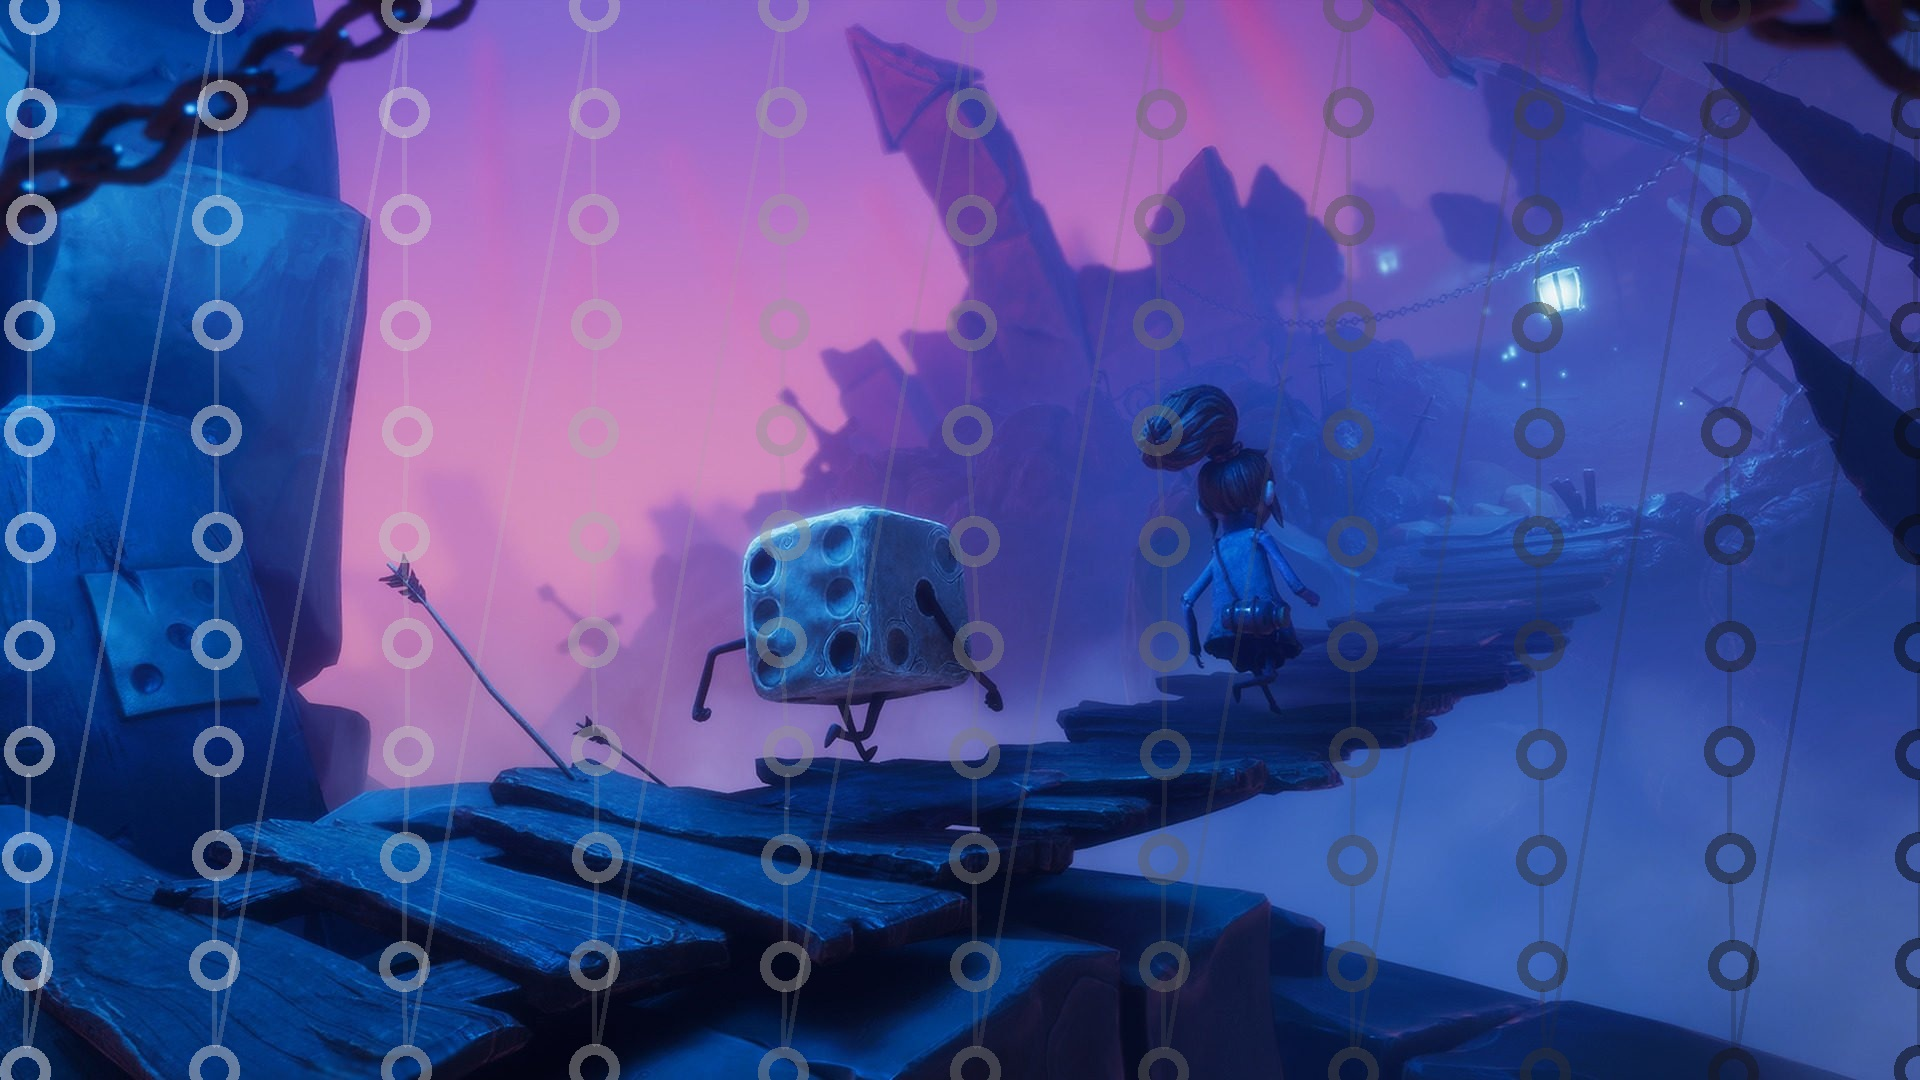
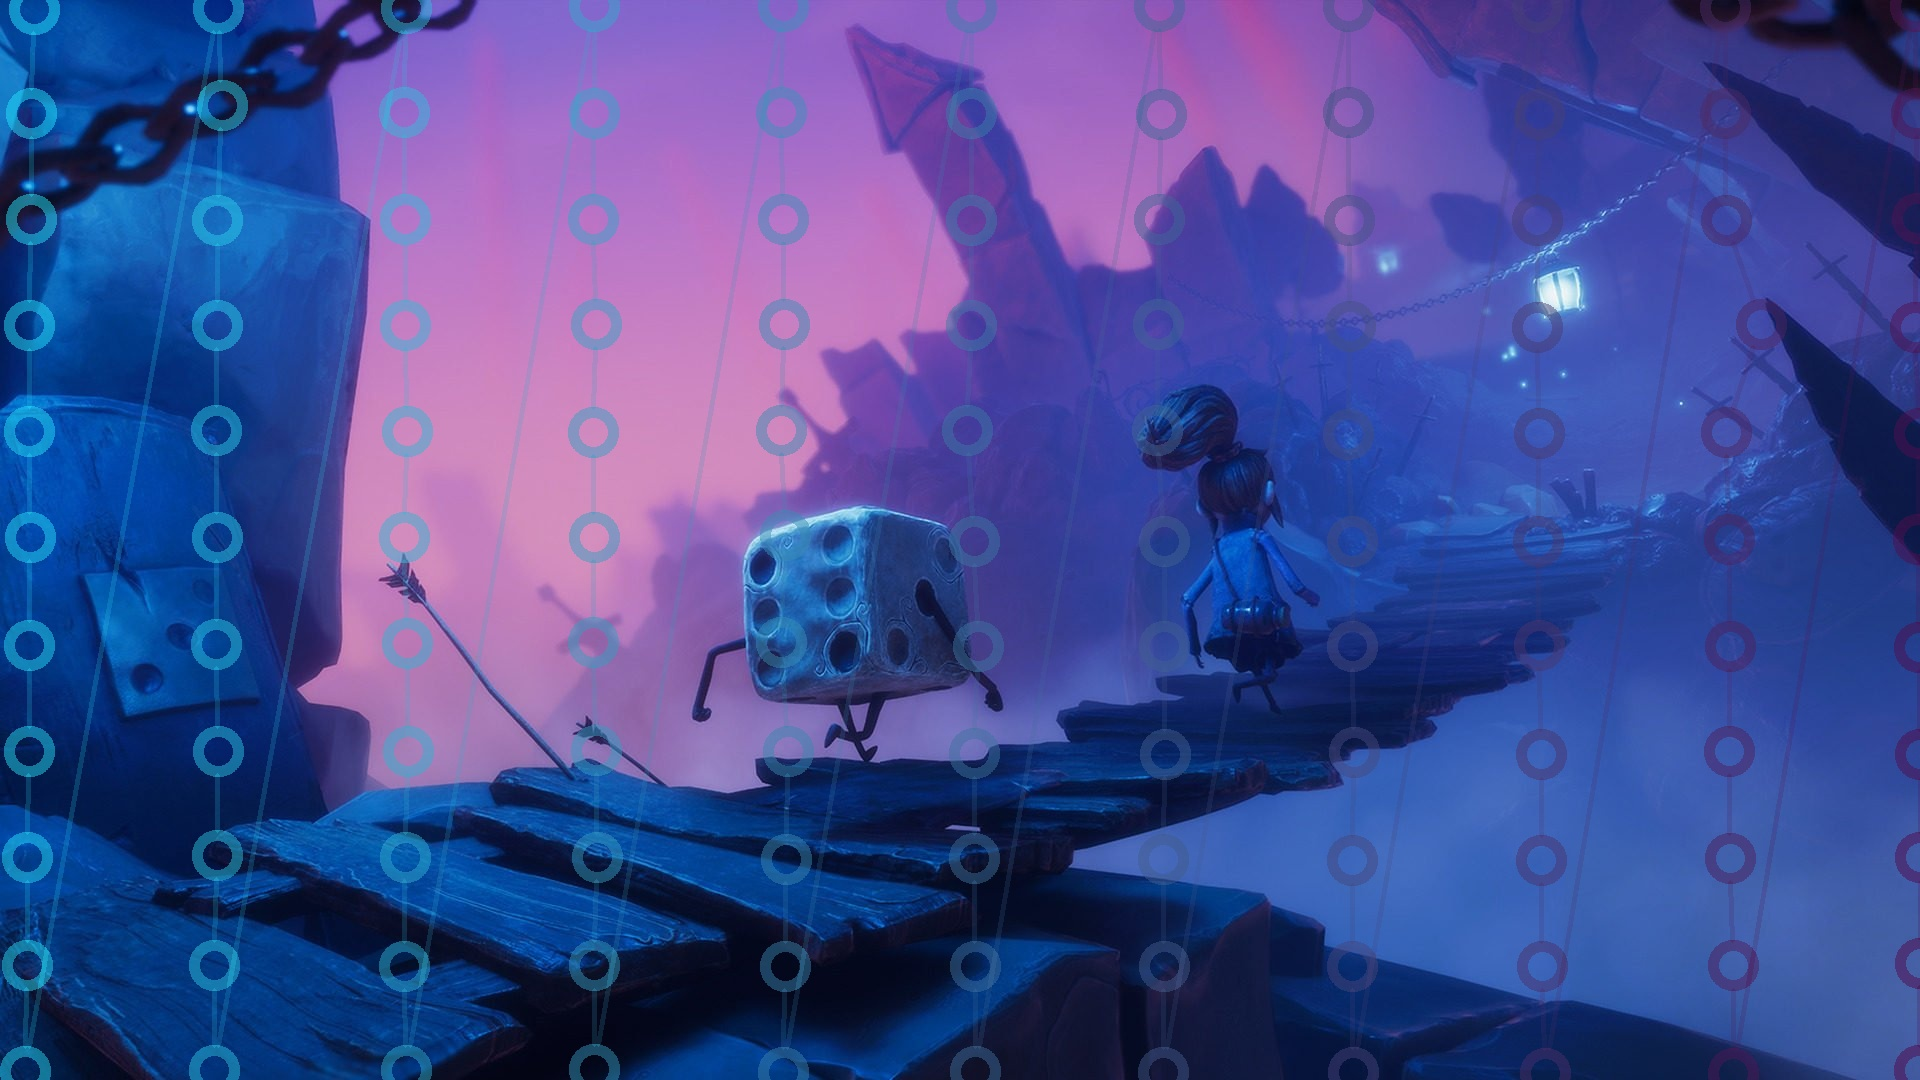
feat: added color picker for scanpath and better gradient between colors

diff --git a/main.py b/main.py
@@ -9,7 +9,7 @@ import numpy as np
 from PySide6.QtUiTools import QUiLoader
 from PySide6.QtGui import QPixmap, QImage, QRegularExpressionValidator
 from PySide6.QtCore import QFile, QRegularExpression, Qt
-from PySide6.QtWidgets import QApplication, QFileDialog, QLabel, QPushButton, QWidget, QButtonGroup
+from PySide6.QtWidgets import QApplication, QFileDialog, QLabel, QPushButton, QWidget, QButtonGroup, QColorDialog
 from pyqt_frameless_window import FramelessMainWindow
 from math import sqrt, atan2, cos, sin
 from matplotlib import pyplot, use
@@ -604,6 +604,11 @@ class VisualizationWindow(FramelessMainWindow):
     planeNormal = np.array([0, 1, 0])
     planeCenter = np.array([0, -500, 0])
     qimg = None
+    color1 = (0, 0, 0)
+    color2 = (255, 255, 255) 
+    repeat = False
+    points_group = {}
+    points_group_keys = []
 
     def __init__(self, imagePath = None, rawData = None, heatmap = None, scanpath = None):
         super().__init__()
@@ -633,10 +638,34 @@ class VisualizationWindow(FramelessMainWindow):
         self.heatmap = heatmap
         self.scanpath = scanpath
         self.__mainWidget.saveImage.clicked.connect(self.saveImage)
+        self.__mainWidget.color1.clicked.connect(self.setFirstColor)
+        self.__mainWidget.color2.clicked.connect(self.setSecondColor)
+        self.__mainWidget.color1.setStyleSheet(f'QPushButton {{background-color: #000000; border: 5px solid #FFE81F;}}')
+        self.__mainWidget.color2.setStyleSheet(f'QPushButton {{background-color: #FFFFFF; border: 5px solid #FFE81F;}}')
+        if not self.scanpath:
+            self.__mainWidget.color1.hide()
+            self.__mainWidget.color2.hide()
+
         if self.rawData:
             self.rawToPoint()
 
         if self.imagePath:
+            self.displayImage()
+
+    def setFirstColor(self):
+        color = QColorDialog.getColor()
+        if color.isValid():
+            r, g, b, _ = color.getRgb()
+            self.__mainWidget.color1.setStyleSheet(f'QPushButton {{background-color: {color.name()}; border: 5px solid #FFE81F;}}')
+            self.color1 = (b, g, r)
+            self.displayImage()
+
+    def setSecondColor(self):
+        color = QColorDialog.getColor()
+        if color.isValid():
+            r, g, b, _ = color.getRgb()
+            self.__mainWidget.color2.setStyleSheet(f'QPushButton {{background-color: {color.name()}; border: 5px solid #FFE81F;}}')
+            self.color2 = (b, g, r)
             self.displayImage()
 
     def saveImage(self):
@@ -675,6 +704,9 @@ class VisualizationWindow(FramelessMainWindow):
             
     def sqrMagnitude(self, v):
         return self.matmul(v, v)
+
+    def lerp(self, a, b, t):
+        return (1 - t) * a + t * b
 
     def convert_uv_to_px(self, uv_data, width, height):
         return (int(uv_data[0] * width), int(uv_data[1] * height))
@@ -736,89 +768,92 @@ class VisualizationWindow(FramelessMainWindow):
         TEXT_THICKNESS = 2
         TEXT_COLOR = (0, 0, 0)
 
-        points_group = {}
         colors = {}
         threshold = 50
         order = 0
 
-        for i in range(0, len(self.uv_coords)):
-            self.uv_coords[i] = self.convert_uv_to_px(self.uv_coords[i], image_width, image_height)
+        if not self.repeat:
+            self.repeat = True
+            for i in range(0, len(self.uv_coords)):
+                self.uv_coords[i] = self.convert_uv_to_px(self.uv_coords[i], image_width, image_height)
 
-        main_point = None
-        for i in range(0, len(self.uv_coords)):
-            if not main_point:
-                main_point = (self.uv_coords[i][0], self.uv_coords[i][1])
+            main_point = None
+            for i in range(0, len(self.uv_coords)):
+                if not main_point:
+                    main_point = (self.uv_coords[i][0], self.uv_coords[i][1])
 
-            if abs(self.uv_coords[i][0] - main_point[0]) <= threshold and abs(self.uv_coords[i][1] - main_point[1]) <= threshold:
-                if not points_group.get(order):
-                    points_group[order] = {'points': [self.uv_coords[i]], 'middle': {'x': 0, 'y': 0}, 'diameter': 0, 'index': order + 1}
-                else:
-                    points_group[order]['points'].append(self.uv_coords[i])
-            
-            else:
-                order += 1
-                main_point = (self.uv_coords[i][0], self.uv_coords[i][1])
-                points_group[order] = {'points': [self.uv_coords[i]], 'middle': {'x': 0, 'y': 0}, 'diameter': 0, 'index': order + 1}
-
-        points_group = dict(sorted(points_group.items(), key=lambda item: len(item[1]['points']), reverse=False))
-        points_group_keys = list(points_group)    
-
-        for key in points_group:
-            points = points_group[key]['points']
-            x = 0
-            y = 0
-            diameter = 0
-
-            for point in points:
-                x += point[0]
-                y += point[1]
-
-            x = int(x / len(points))
-            y = int(y / len(points))
-            points_group[key]['middle']['x'] = x
-            points_group[key]['middle']['y'] = y            
-
-        different_lengths = {}
-        for key in points_group:
-            if not different_lengths.get(len(points_group[key]['points'])):
-                different_lengths[len(points_group[key]['points'])] = [key]
-            else:
-                different_lengths[len(points_group[key]['points'])].append(key)
-
-        # base pixel for diameter ---- diameter = 20
-        # normalize between new_min and new_max ---- normalized_value = ((original_value - min_value) / (max_value - min_value)) * (new_max - new_min) + new_min
-        new_min = 1
-        new_max = 4
-        # normalize between 1 and 2 ---- normalized_value = (value - min_length) / (max_length - min_length) + 1
-
-        if len(different_lengths) > 1:
-            max_length = max(different_lengths)
-            min_length = min(different_lengths)
-            for value in different_lengths:
-                normalized_value = ((value - min_length) / (max_length - min_length)) * (new_max - new_min) + new_min
-                for key in different_lengths[value]:
-                    points_group[key]['diameter'] = int(20 * normalized_value)
-        else:
-            for key in different_lengths:
-                for value in different_lengths[key]:
-                    points_group[value]['diameter'] = 20
+                if abs(self.uv_coords[i][0] - main_point[0]) <= threshold and abs(self.uv_coords[i][1] - main_point[1]) <= threshold:
+                    if not self.points_group.get(order):
+                        self.points_group[order] = {'points': [self.uv_coords[i]], 'middle': {'x': 0, 'y': 0}, 'diameter': 0, 'index': order + 1}
+                    else:
+                        self.points_group[order]['points'].append(self.uv_coords[i])
                 
+                else:
+                    order += 1
+                    main_point = (self.uv_coords[i][0], self.uv_coords[i][1])
+                    self.points_group[order] = {'points': [self.uv_coords[i]], 'middle': {'x': 0, 'y': 0}, 'diameter': 0, 'index': order + 1}
 
-        points_group = dict(sorted(points_group.items(), key=lambda item: item[1]['index'], reverse=False))
-        points_group_keys = list(points_group)
+            self.points_group = dict(sorted(self.points_group.items(), key=lambda item: len(item[1]['points']), reverse=False))
+            self.points_group_keys = list(self.points_group)    
 
-        color_step = 1 / len(points_group)
-        for key in points_group:
-            shade = key * color_step
-            colors[key] = (int(255 * shade), int(255 * shade), int(255 * shade))
+            for key in self.points_group:
+                points = self.points_group[key]['points']
+                x = 0
+                y = 0
 
-        for key in range(0, len(points_group) - 1):
-            x1 = points_group[points_group_keys[key]]['middle']['x']
-            y1 = points_group[points_group_keys[key]]['middle']['y']
-            x2 = points_group[points_group_keys[key + 1]]['middle']['x']
-            y2 = points_group[points_group_keys[key + 1]]['middle']['y']
-            radius1 = points_group[points_group_keys[key]]['diameter']
-            radius2 = points_group[points_group_keys[key + 1]]['diameter']
+                for point in points:
+                    x += point[0]
+                    y += point[1]
+
+                x = int(x / len(points))
+                y = int(y / len(points))
+                self.points_group[key]['middle']['x'] = x
+                self.points_group[key]['middle']['y'] = y            
+
+            different_lengths = {}
+            for key in self.points_group:
+                if not different_lengths.get(len(self.points_group[key]['points'])):
+                    different_lengths[len(self.points_group[key]['points'])] = [key]
+                else:
+                    different_lengths[len(self.points_group[key]['points'])].append(key)
+
+            # base pixel for diameter ---- diameter = 20
+            # normalize between new_min and new_max ---- normalized_value = ((original_value - min_value) / (max_value - min_value)) * (new_max - new_min) + new_min
+            new_min = 1
+            new_max = 4
+            # normalize between 1 and 2 ---- normalized_value = (value - min_length) / (max_length - min_length) + 1
+
+            if len(different_lengths) > 1:
+                max_length = max(different_lengths)
+                min_length = min(different_lengths)
+                for value in different_lengths:
+                    normalized_value = ((value - min_length) / (max_length - min_length)) * (new_max - new_min) + new_min
+                    for key in different_lengths[value]:
+                        self.points_group[key]['diameter'] = int(20 * normalized_value)
+            else:
+                for key in different_lengths:
+                    for value in different_lengths[key]:
+                        self.points_group[value]['diameter'] = 20
+                    
+
+            self.points_group = dict(sorted(self.points_group.items(), key=lambda item: item[1]['index'], reverse=False))
+            self.points_group_keys = list(self.points_group)
+
+        t = 1 / (len(self.points_group) - 1) 
+        for key in self.points_group:
+            r = min(255, max(0, int(self.lerp(self.color1[0], self.color2[0], t))))
+            g = min(255, max(0, int(self.lerp(self.color1[1], self.color2[1], t))))
+            b = min(255, max(0, int(self.lerp(self.color1[2], self.color2[2], t))))
+            colors[key] = (r, g, b)
+            t += 1 / (len(self.points_group) - 1)
+
+        for key in range(0, len(self.points_group) - 1):
+            x1 = self.points_group[self.points_group_keys[key]]['middle']['x']
+            y1 = self.points_group[self.points_group_keys[key]]['middle']['y']
+            x2 = self.points_group[self.points_group_keys[key + 1]]['middle']['x']
+            y2 = self.points_group[self.points_group_keys[key + 1]]['middle']['y']
+            radius1 = self.points_group[self.points_group_keys[key]]['diameter']
+            radius2 = self.points_group[self.points_group_keys[key + 1]]['diameter']
 
             distance = sqrt((x2 - x1)**2 + (y2 - y1)**2)
 
@@ -828,19 +863,19 @@ class VisualizationWindow(FramelessMainWindow):
                 point1_y = y1 + (radius1 + outline_width // 2) * sin(angle)
                 point2_x = x2 - (radius2 + outline_width // 2) * cos(angle)
                 point2_y = y2 - (radius2 + outline_width // 2) * sin(angle)
-                cv2.line(overlay_lines, (int(point1_x), int(point1_y)), (int(point2_x), int(point2_y)), colors[list(points_group)[key]], 4)
+                cv2.line(overlay_lines, (int(point1_x), int(point1_y)), (int(point2_x), int(point2_y)), colors[list(self.points_group)[key]], 4)
             
-            text_size, _ = cv2.getTextSize(str(points_group[points_group_keys[key]]['index']), TEXT_FACE, TEXT_SCALE, TEXT_THICKNESS)
+            text_size, _ = cv2.getTextSize(str(self.points_group[self.points_group_keys[key]]['index']), TEXT_FACE, TEXT_SCALE, TEXT_THICKNESS)
             text_origin = (int(x1 - text_size[0] / 2), int(y1 + text_size[1] / 2))
             
             #cv2.circle(overlay_circles, (x1, y1), radius1, colors[points_group_keys[key]], -1)
-            cv2.circle(overlay_circles, (x1, y1), radius1, colors[points_group_keys[key]], outline_width)
+            cv2.circle(overlay_circles, (x1, y1), radius1, colors[self.points_group_keys[key]], outline_width)
             #cv2.putText(overlay_circles, str(points_group[points_group_keys[key]]['index']), text_origin, TEXT_FACE, TEXT_SCALE, TEXT_COLOR, TEXT_THICKNESS, cv2.LINE_AA)
-            if key == len(points_group) - 2:
-                text_size, _ = cv2.getTextSize(str(points_group[points_group_keys[key]]['index']), TEXT_FACE, TEXT_SCALE, TEXT_THICKNESS)
+            if key == len(self.points_group) - 2:
+                text_size, _ = cv2.getTextSize(str(self.points_group[self.points_group_keys[key]]['index']), TEXT_FACE, TEXT_SCALE, TEXT_THICKNESS)
                 text_origin = (int(x2 - text_size[0] / 2), int(y2 + text_size[1] / 2))
                 #cv2.circle(overlay_circles, (x2, y2), radius2, colors[points_group_keys[key + 1]], -1)
-                cv2.circle(overlay_circles, (x2, y2), radius2, colors[points_group_keys[key + 1]], outline_width)
+                cv2.circle(overlay_circles, (x2, y2), radius2, colors[self.points_group_keys[key + 1]], outline_width)
                 #cv2.putText(overlay_circles, str(points_group[points_group_keys[key + 1]]['index']), text_origin, TEXT_FACE, TEXT_SCALE, TEXT_COLOR, TEXT_THICKNESS, cv2.LINE_AA)
 
 

diff --git a/utils/scanpath.py b/utils/scanpath.py
@@ -1,9 +1,11 @@
 import csv
 import cv2
 from math import sqrt, atan2, cos, sin
+from matplotlib import pyplot as plt
+import numpy as np
 
 input_path = "./coordinates/uv_coords.csv"
-image_path = "./images/scan_test.jpg"
+image_path = "./images/heatmap.jpg"
 
 image = cv2.imread(image_path)
 image_width = image.shape[1]
@@ -21,6 +23,8 @@ TEXT_FACE = cv2.FONT_HERSHEY_SIMPLEX
 TEXT_SCALE = 0.8
 TEXT_THICKNESS = 2
 TEXT_COLOR = (0, 0, 0)
+color1 = (255, 0, 0)
+color2 = (0, 0, 255)
 
 points_group = {}
 colors = {}
@@ -99,10 +103,21 @@ else:
 points_group = dict(sorted(points_group.items(), key=lambda item: item[1]['index'], reverse=False))
 points_group_keys = list(points_group)
 
-color_step = 1 / len(points_group)
+def lerp(a, b, t):
+    return (1 - t) * a + t * b
+
+t = 1 / (len(points_group) - 1) 
 for key in points_group:
-    shade = key * color_step
-    colors[key] = (int(255 * shade), int(255 * shade), int(255 * shade))
+    r = min(255, max(0, int(lerp(color1[0], color2[0], t))))
+    g = min(255, max(0, int(lerp(color1[1], color2[1], t))))
+    b = min(255, max(0, int(lerp(color1[2], color2[2], t))))
+    colors[key] = (r, g, b)
+    t += 1 / (len(points_group) - 1)
+
+# color_step = 1 / len(points_group)
+# for key in points_group:
+#     shade = key * color_step
+#     colors[key] = (int(255 * shade), int(255 * shade), int(255 * shade))
 
 for key in range(0, len(points_group) - 1):
     x1 = points_group[points_group_keys[key]]['middle']['x']
@@ -140,4 +155,4 @@ result = cv2.addWeighted(overlay_circles, alpha_circles, image, 1 - alpha_circle
 result = cv2.addWeighted(overlay_lines, alpha_lines, result, 1 - alpha_lines, 0)
 
 # TODO: generate multiple images with different types of scanpath
-cv2.imwrite("./images/scan_test_after.jpg", result)
+cv2.imwrite("./images/heatmap_color.jpg", result)
